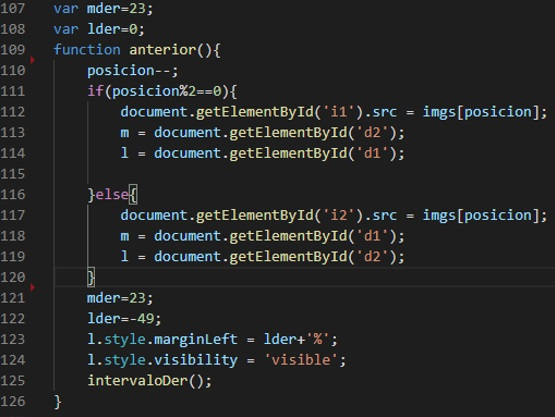
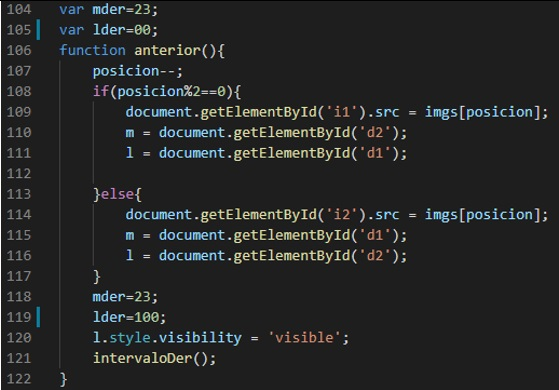
Depuracion de codigo en galeria

Changed region(s): [[0.0, 0.0, 0.9802, 0.9846], [0.1532, 0.4308, 0.9802, 0.9538], [0.0919, 0.9538, 0.1225, 1.0]]

diff --git a/Galeria/galeria.js b/Galeria/galeria.js
@@ -35,7 +35,7 @@ function generarImagenes(){
     posicion=0;
     document.getElementById("anterior").disabled = true;
     document.getElementById("siguiente").disabled = false;
-    document.getElementById("d1").style.marginLeft='23%';
+    document.getElementById("d1").style.right='27%';
     document.getElementById("d1").style.visibility = 'visible';
     document.getElementById("d2").style.visibility = 'hidden';
     document.getElementById("i1").src = imgs[0];
@@ -46,8 +46,8 @@ function generarImagenes(){
 var m;
 var l;
 
-var mizq=23;
-var lizq=95;
+var mizq=27;
+var lizq=-60;
 function siguiente(){
     posicion++;
     if(posicion%2==0){
@@ -61,9 +61,8 @@ function siguiente(){
         m = document.getElementById('d1');
         l = document.getElementById('d2');
     }
-    mizq=23;
-    lizq=95;
-    l.style.marginLeft = '95%';
+    mizq=27;
+    lizq=-60;
     l.style.visibility = 'visible';
     intervaloIzq();
 }
@@ -83,18 +82,16 @@ function intervaloIzq(){
 }
 
 function moverIzq(){
-    if(lizq>23){
+    if(lizq<27){
         document.getElementById("siguiente").disabled = true;
         document.getElementById("anterior").disabled = true;
-        mizq -= 1;
-        lizq -= 1;
-        //console.log(mizq)
-        m.style.marginLeft = mizq+'%';
-        l.style.marginLeft = lizq+'%';
+        mizq += 1;
+        lizq += 1;
+        m.style.right = mizq+'%';
+        l.style.right = lizq+'%';
     }else{
         document.getElementById("siguiente").disabled = false;
         document.getElementById("anterior").disabled = false;
-        //console.log(mizq)
         m.style.visibility = 'hidden';
         superior();
         clearInterval(sizq);
@@ -104,8 +101,8 @@ function moverIzq(){
 
 
 //CAMBIAN IMAGENES ANTERIOR
-var mder=23;
-var lder=0;
+var mder=27;
+var lder=00;
 function anterior(){
     posicion--;
     if(posicion%2==0){
@@ -118,9 +115,8 @@ function anterior(){
         m = document.getElementById('d1');
         l = document.getElementById('d2');
     }
-    mder=23;
-    lder=-49;
-    l.style.marginLeft = lder+'%';
+    mder=27;
+    lder=100;
     l.style.visibility = 'visible';
     intervaloDer();
 }
@@ -140,13 +136,13 @@ function intervaloDer(){
 }
 
 function moverDer(){
-    if(lder<23){
+    if(lder>27){
         document.getElementById("siguiente").disabled = true;
         document.getElementById("anterior").disabled = true;
-        mder += 1;
-        lder += 1;
-        m.style.marginLeft = mder+'%';
-        l.style.marginLeft = lder+'%';
+        mder -= 1;
+        lder -= 1;
+        m.style.right = mder+'%';
+        l.style.right = lder+'%';
     }else{
         document.getElementById("siguiente").disabled = false;
         document.getElementById("anterior").disabled = false;

diff --git a/README.md b/README.md
@@ -70,26 +70,26 @@ También se generó un archivo .css el cual se hizo especialmente para otorgar c
 
 ![img17](/imagenes/i17.jpg)
 
-Para el archivo JavaScript se generaron tres variables globales, la primera contiene todas las imágenes disponibles, la segunda describe la posición o el numero de imagen que se estará mostrando en la mitad de la pagina y para la tercera variable es la que contendrá las 5 imágenes escogidas. Luego se generó la primera función que será utilizada cuando la pagina y inicie y cuando se dé clic al botón iniciar, esta función genera números aleatorios que no se repitan y se los almacenaran en la tercera variable global, luego estos valores son reemplazados por las direcciones de las imágenes seleccionadas, luego da un valor de 0 a la variable global de la posición, bloquea el botón que busca la imagen anterior, ubica las posiciones y visibilidad correspondiente, y coloca la primera imagen de la lista.
+Para el archivo JavaScript se generaron tres variables globales, la primera contiene todas las imágenes disponibles, la segunda describe la posición o el número de imagen que se estará mostrando en la mitad de la página y para la tercera variable es la que contendrá las 5 imágenes escogidas. Luego se generó la primera función que será utilizada cuando la página inicie y cuando se dé clic al botón iniciar, esta función genera números aleatorios que no se repitan y se los almacenaran en la tercera variable global, luego estos valores son reemplazados por las direcciones de las imágenes seleccionadas, luego da un valor de 0 a la variable global de la posición, bloquea el botón que busca la imagen anterior, ubica las posiciones y visibilidad correspondiente, y coloca la primera imagen de la lista.
 
 ![img18](/imagenes/i18.jpg)
 
-Luego se crearon variables globales que en un futuro contendrán a las etiquetas div que se encuentren en la mitad de la pagina o a un lado de la misma, también se crean dos variables que contienen las posiciones en las que se ubicaran las etiquetas div cuando se muevan a la izquierda. También se creó una función para cuando se de click en el botón siguiente, lo que esta función hará es comprobar que posición tocara ubicarse en el centro, entonces, dependiendo del resultado se colocara la imagen correspondiente y se indicara cual etiqueta div se encuentra en la mitad de la pagina y cual a un lado, luego se setean las posiciones de las dos etiquetas y se indica que la etiqueta que esta en un lado de la página será visible, por último se llama un método el cual permite comenzar el movimiento de las imágenes.
+Luego se crearon variables globales que en un futuro contendrán a las etiquetas div que se encuentren en la mitad de la página o a un lado de la misma, también se crean dos variables que contienen las posiciones en las que se ubicaran las etiquetas div cuando se muevan a la izquierda. También se creó una función para cuando se de click en el botón siguiente, lo que esta función hará es comprobar que posición tocara ubicarse en el centro, entonces, dependiendo del resultado se colocara la imagen correspondiente y se indicara cual etiqueta div se encuentra en la mitad de la página y cual a un lado, luego se setean las posiciones de las dos etiquetas y se indica que la etiqueta que está en un lado de la página será visible, por último se llama un método el cual permite comenzar el movimiento de las imágenes.
 
 ![img19](/imagenes/i19.jpg)
 
 La función que se llama al final de la imagen anterior es la que usara un método especial de JavaScript y guardarla en una variable, este método es setInterval, el cual permite tener un temporizador continuo, lo que significa que ejecutara una función (moverIzq) cada cierto tiempo (en milisegundos).
-Dicha función que es llamada es la que realiza el movimiento de las imágenes para la izquierda, se comprueba la posición que tendrá la imagen que se encuentra a un lado de la página, si esta es mayor a 23 (porcentaje donde la imagen se centra), entonces se bloquean los botones y las posiciones de las dos imágenes disminuyen en 1, caso contrario (lo que significa que la imagen ya se colocó en el centro), se habilitan los botones, se oculta la imagen que ya no es usada, se llama un método que será explicado a continuación y por último, se manda una señal para parar el temporizador.
-La última función que se llama es la que habilita los botones de movimiento, si la posición es superior a 3, significa que es la ultima imagen de la lista, por lo que se bloqueará el botón de siguiente, caso contrario, el botón anterior será habilitado para su uso.
+Dicha función que es llamada es la que realiza el movimiento de las imágenes para la izquierda, se comprueba la posición que tendrá la imagen que se encuentra a un lado de la página, si esta es menor a 23 (porcentaje donde la imagen se centra), entonces se bloquean los botones y las posiciones de las dos imágenes aumentan en 1, caso contrario (lo que significa que la imagen ya se colocó en el centro), se habilitan los botones, se oculta la imagen que ya no es usada, se llama un método que será explicado a continuación y por último, se manda una señal para parar el temporizador.
+La última función que se llama es la que habilita los botones de movimiento, si la posición es superior a 3, significa que es la última imagen de la lista, por lo que se bloqueará el botón de siguiente, caso contrario, el botón anterior será habilitado para su uso.
 
 ![img20](/imagenes/i20.jpg)
 
-Luego, se crean variables globales para el movimiento de las imágenes a la derecha, estas variables indican las posiciones en las cuales se encontrarán las imágenes. Luego se crea una función para cuando el botón anterior es presionado, esta función hace lo contrario que la función para el botón siguiente, disminuye en uno la variable global posición y verifica que posición es, para así poder colocar la imagen que corresponde en el campo correcto y definir que etiqueta div se encuentra en la mitad y al lado de la página, luego se da posición y visibilidad al elemento que se encuentra a un lado de la pagina y se llama un método que será explicado a continuación.
+Luego, se crean variables globales para el movimiento de las imágenes a la derecha, estas variables indican las posiciones en las cuales se encontrarán las imágenes. Luego se crea una función para cuando el botón anterior es presionado, esta función hace lo contrario que la función para el botón siguiente, disminuye en uno la variable global posición y verifica que posición es, para así poder colocar la imagen que corresponde en el campo correcto y definir que etiqueta div se encuentra en la mitad y al lado de la página, luego se da visibilidad al elemento que se encuentra a un lado de la página y se llama un método que será explicado a continuación.
 
 ![img21](/imagenes/i21.jpg)
 
-La función que se llama es la que utilizara el método setInterval para el movimiento a la derecha, especificando que se realizara una función cada 15 milisegundos. La función que se ejecutara continuamente es la que permite el movimiento de las imágenes, por lo que se comprueba que la posición del elemento que se encuentra a un lado sea menor a 23, el cual es la posición centrada de los elementos, si se cumple esto, los botones son deshabilitados y se modifican las posiciones de los elementos tanto de la mitad como del lado de la imagen; si no se cumple, los botones son habilitados, se oculta la imagen desplazada, se llama a un método que se explicara a continuación y se manda una señal para detener este temporizador.
-La función llamada comprueba si la imagen mostrada es la primera imagen del la lista de imágenes, por lo que si se comprueba esto, el botón que permite obtener una imagen anterior es deshabilitado, caso contrario, el botón siguiente se habilitara.
+La función que se llama es la que utilizara el método setInterval para el movimiento a la derecha, especificando que se realizara una función cada 15 milisegundos. La función que se ejecutara continuamente es la que permite el movimiento de las imágenes, por lo que se comprueba que la posición del elemento que se encuentra a un lado sea mayor a 23, el cual es la posición centrada de los elementos, si se cumple esto, los botones son deshabilitados y se modifican las posiciones de los elementos tanto de la mitad como del lado de la imagen; si no se cumple, los botones son habilitados, se oculta la imagen desplazada, se llama a un método que se explicara a continuación y se manda una señal para detener este temporizador.
+La función llamada comprueba si la imagen mostrada es la primera imagen de la lista de imágenes, por lo que, si se comprueba esto, el botón que permite obtener una imagen anterior es deshabilitado, caso contrario, el botón siguiente se habilitara.
 
 ![img22](/imagenes/i22.jpg)
 
